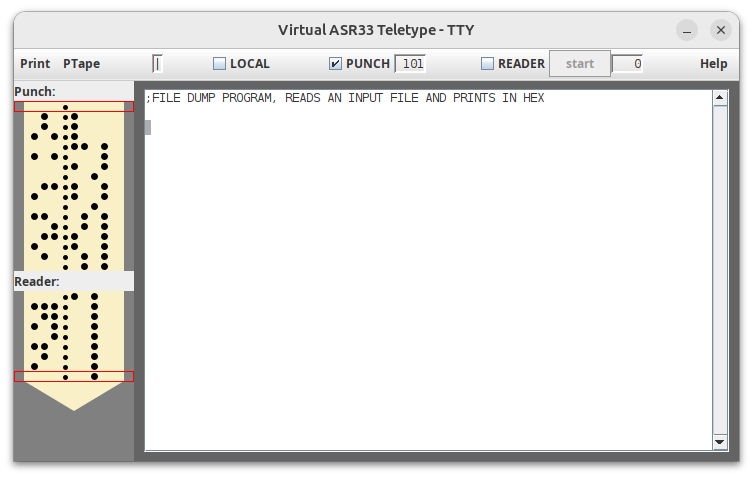
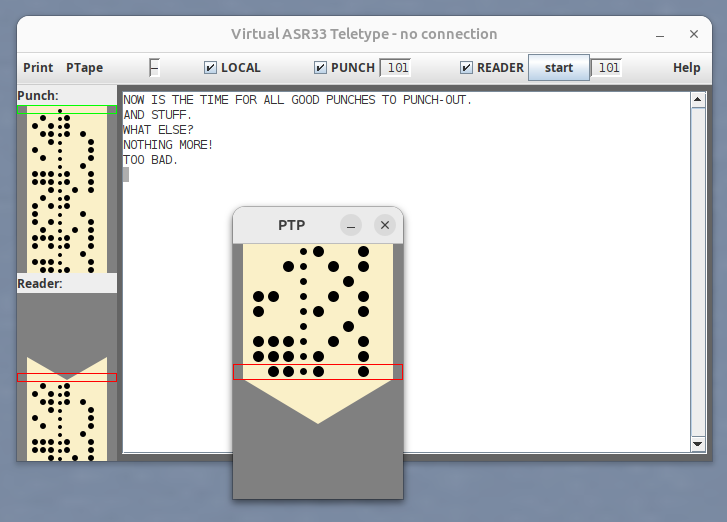
tune size of live view

diff --git a/src/ASR33.java b/src/ASR33.java
@@ -350,11 +350,13 @@ public class ASR33 extends JFrame implements Typer, RdrContainer,
 		gc.gridwidth = 1;
 		gc.gridheight = 1;
 		gc.anchor = GridBagConstraints.CENTER;
-		pun_vu = new PaperTapeViewer(8, 100, true, false);
-		rdr_vu = new PaperTapeViewer(8, 100, false, false);
+		int vu_wid = 80;
+		int vu_hei = 10;
+		pun_vu = new PaperTapeViewer(vu_hei, vu_wid, true, false);
+		rdr_vu = new PaperTapeViewer(vu_hei, vu_wid, false, false);
 		JLabel lb = new JLabel("Punch:");
 		lb.setOpaque(true);
-		lb.setPreferredSize(new Dimension(120, 20));
+		lb.setPreferredSize(new Dimension(vu_wid + pun_vu.marg, 20));
 		gb.setConstraints(lb, gc);
 		add(lb);
 		++gc.gridy;
@@ -363,7 +365,7 @@ public class ASR33 extends JFrame implements Typer, RdrContainer,
 		++gc.gridy;
 		lb = new JLabel("Reader:");
 		lb.setOpaque(true);
-		lb.setPreferredSize(new Dimension(120, 20));
+		lb.setPreferredSize(new Dimension(vu_wid + rdr_vu.marg, 20));
 		gb.setConstraints(lb, gc);
 		add(lb);
 		++gc.gridy;
@@ -372,7 +374,7 @@ public class ASR33 extends JFrame implements Typer, RdrContainer,
 		gc.gridy = 0;
 		++gc.gridx;
 		JPanel pan = new JPanel();
-		pan.setPreferredSize(new Dimension(10, 10));
+		pan.setPreferredSize(new Dimension(5, 10));
 		pan.setOpaque(false);
 		gb.setConstraints(pan, gc);
 		add(pan);
@@ -382,7 +384,7 @@ public class ASR33 extends JFrame implements Typer, RdrContainer,
 		add(scroll);
 		++gc.gridx;
 		pan = new JPanel();
-		pan.setPreferredSize(new Dimension(10, 10));
+		pan.setPreferredSize(new Dimension(5, 10));
 		pan.setOpaque(false);
 		gb.setConstraints(pan, gc);
 		add(pan);
@@ -907,6 +909,7 @@ public class ASR33 extends JFrame implements Typer, RdrContainer,
 			}
 			try {
 				pun_out = new RandomAccessFile(file, "rw");
+				pun_out.setLength(0);
 				pun_mi.setText("Punch - " + file.getName());
 				pun.setEnabled(true);
 				pun_cnt.setText("   0");

diff --git a/src/PaperTapeViewer.java b/src/PaperTapeViewer.java
@@ -9,14 +9,15 @@ class PaperTapeViewer extends JPanel {
 	int data = 11;	// @0.072/0.1 = 10.8/15
 	int sprk = 7;	// @0.046/0.1 = 6.9/15
 	public byte[] tapeBuf;
-	public int win;
-	public int buf;
+	public int win; // read-only
+	public int buf; // read-only
 	public int beg;	// use update(beg, end) to change
 	public int end;	// use update(beg, end) to change
 	int tapew;
 	int tapeh;
-	int marg;
+	public int marg; // read-only
 	int curs;
+	Color curs_color = Color.red;
 	int l, t, b, bb, m;	// for paint()
 	int td;
 	Polygon head, hp;
@@ -34,6 +35,7 @@ class PaperTapeViewer extends JPanel {
 		tapew =  10 * cell;
 		tapeh = win * cell;
 		if (top) {
+			curs_color = Color.green;
 			curs = 0;
 		} else {
 			curs = buf * cell;
@@ -103,7 +105,7 @@ class PaperTapeViewer extends JPanel {
 		if (!noTail && td > 0 && t > 0) {
 			g2d.fillPolygon(tp);
 		}
-		g2d.setColor(Color.red); // cursor - fixed position
+		g2d.setColor(curs_color); // cursor - fixed position
 		g2d.drawRect(0, curs, tapew + marg - 1, cell);
 		g2d.setColor(Color.black);
 		// draw tapeBuf backwards... End is at top...